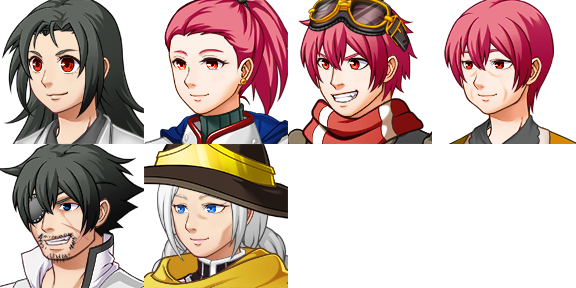
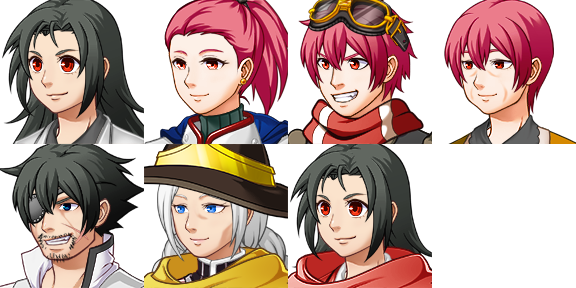
Selene in Duskward uniform: battler, damage strip and face
sprite_gen.py builds side-view battlers and damage strips from the generator's
SV/TVD parts as well as walking sprites; the SV layer order reproduces Selene's
own battler pixel for pixel. Her uniform recipe lives in academy_sprites.py.

Changed region(s): [[0.5, 0.5, 0.75, 1.0]]

diff --git a/Project Nova_tools/sprite_gen.py b/Project Nova_tools/sprite_gen.py
@@ -15,6 +15,20 @@ HERE = os.path.dirname(os.path.abspath(__file__))
 # back to front, as the generator stacks them for the walking sprite (RearHair2 is the back of the head: over the body)
 ORDER = ['Cloak2', 'Wing2', 'Tail2', 'Body', 'RearHair2', 'FacialMark', 'Beard2', 'Clothing2', 'Clothing1',
          'Beard1', 'RearHair1', 'Cloak1', 'FrontHair2', 'FrontHair1', 'BeastEars', 'Glasses', 'AccB', 'AccA', 'Wing1', 'Tail1']
+# the same character as a side-view battler (img/sv_actors, 576x384) and as the damage strip (img/characters Damage
+# sheets, 144x48: three frames of lying down). These sheets have one layer per part: (file part, recipe keys)
+ORDERS = {
+    # (checked: Selene's own battler, family1_1, comes out pixel for pixel)
+    'SV': [('Wing', ('Wing',)), ('Tail', ('Tail',)), ('Cloak2', ('Cloak',)), ('body', ('Body',)),
+           ('RearHair1', ('RearHair',)), ('FacialMark', ('FacialMark',)), ('Ears', ('Ears',)), ('Beard', ('Beard',)),
+           ('Clothing1', ('Clothing1', 'Clothing2')), ('Cloak1', ('Cloak',)), ('FrontHair', ('FrontHair',)),
+           ('BeastEars', ('BeastEars',)), ('Glasses', ('Glasses',)), ('AccB', ('AccB',)), ('AccA', ('AccA',))],
+    'TVD': [('Wing', ('Wing',)), ('Tail', ('Tail',)), ('Body', ('Body',)), ('RearHair', ('RearHair',)),
+            ('FacialMark', ('FacialMark',)), ('Ears', ('Ears',)), ('Beard', ('Beard',)),
+            ('Clothing', ('Clothing1', 'Clothing2')), ('Cloak', ('Cloak',)), ('FrontHair', ('FrontHair',)),
+            ('BeastEars', ('BeastEars',)), ('Glasses', ('Glasses',)), ('AccB', ('AccB',)), ('AccA', ('AccA',))],
+}
+SIZE = {'TV': (144, 192), 'SV': (576, 384), 'TVD': (144, 48)}
 # mask colour -> slot, per part family
 MASK = {
     'Body': {(249, 193, 157): 'skin', (44, 128, 203): 'eyes', (79, 65, 60): 'eyes_dark'},
@@ -38,12 +52,12 @@ def gradients():
 
 def family(part):
     for f in ('Hair', 'Beard', 'Clothing', 'Cloak', 'Acc', 'Body'):
-        if f in part: return f
+        if f.lower() in part.lower(): return f
     return None
 
 
-def layer(sex, part, n, colors):
-    path = os.path.join(GEN, 'TV', sex, 'TV_%s_p%02d.png' % (part, n))
+def layer(sex, part, n, colors, kind='TV'):
+    path = os.path.join(GEN, kind, sex, '%s_%s_p%02d.png' % (kind, part, n))
     if not os.path.isfile(path): return None
     base = Image.open(path).convert('RGBA')
     mpath = path[:-4] + '_c.png'
@@ -120,10 +134,17 @@ def hat_layer(colors):
     return out
 
 
-def compose(char):
-    """One character: 144x192 (3 frames x 4 directions)."""
+def compose(char, kind='TV'):
+    """One character: kind 'TV' the walking sprite, 144x192 (3 frames x 4 directions); 'SV' the side-view battler;
+    'TVD' the damage strip. The witch hat is on the walking sprite only."""
     sex, parts, colors = char['sex'], char['parts'], char['colors']
-    img = Image.new('RGBA', (144, 192), (0, 0, 0, 0))
+    img = Image.new('RGBA', SIZE[kind], (0, 0, 0, 0))
+    if kind != 'TV':
+        for part, keys in ORDERS[kind]:
+            n = next((parts[k] for k in keys if parts.get(k)), None)
+            lay = n and layer(sex, part, n, colors, kind)
+            if lay: img.alpha_composite(lay)
+        return img
     for part in ORDER:
         for key in (part, part.rstrip('12')):
             if key in parts and parts[key]:

diff --git a/Project Nova_tools/academy_sprites.py b/Project Nova_tools/academy_sprites.py
@@ -89,6 +89,21 @@ HEROES = [   # (name, how it is made)
     ('Selene (Duskward)', lambda: G.head_swap(G.compose(hero_body('Female', 'dusk', 2)), 'family1', 0, long_hair=True)),
 ]
 HERO_SHEET = 'Nova_Heroes_Uniform'
+# Selene is a generator character all through (family1: FrontHair 6, RearHair 2 in hair colour 22, eyes 28, the white
+# Clothing 13), so her battler and damage strip in uniform are built straight from the parts:
+#   img/sv_actors/Nova_Heroes_Uniform_3.png   (the generator's own naming: sheet name + index + 1)
+#   img/characters/Nova_Damage_Uniform.png    Selene at index 2, the first (facing down) row
+SELENE = {'sex': 'Female', 'parts': {'Body': 1, 'Clothing1': 13, 'Cloak': 2, 'FrontHair': 6, 'RearHair': 2},
+          'colors': {**DUSK, 'eyes': 28, 'hair': 22}}
+HERO_SV = {'Nova_Heroes_Uniform_3': SELENE}
+DAMAGE_SHEET, DAMAGE = 'Nova_Damage_Uniform', {2: SELENE}
+
+
+def damage_sheet():
+    out = G.Image.new('RGBA', (576, 384), (0, 0, 0, 0))
+    for i, c in DAMAGE.items():
+        out.alpha_composite(G.compose(c, 'TVD'), ((i % 4) * 144, (i // 4) * 192))
+    return out
 
 
 def hero_sheet():
@@ -129,6 +144,11 @@ if __name__ == '__main__':
             print('wrote img/characters/%s.png' % name)
         hero_sheet().save(os.path.join(G.HERE, '..', 'img', 'characters', HERO_SHEET + '.png'))
         print('wrote img/characters/%s.png' % HERO_SHEET)
+        for name, c in HERO_SV.items():
+            G.compose(c, 'SV').save(os.path.join(G.HERE, '..', 'img', 'sv_actors', name + '.png'))
+            print('wrote img/sv_actors/%s.png' % name)
+        damage_sheet().save(os.path.join(G.HERE, '..', 'img', 'characters', DAMAGE_SHEET + '.png'))
+        print('wrote img/characters/%s.png' % DAMAGE_SHEET)
     S = 2
     out = Image.new('RGBA', (8 * 48 * S + 150, len(sheets) * 48 * S + 10), (70, 75, 90, 255)); d = ImageDraw.Draw(out)
     names = {**{s: ['%s %d' % (s[5:], i) for i in range(8)] for s in STUDENT_SHEETS},
